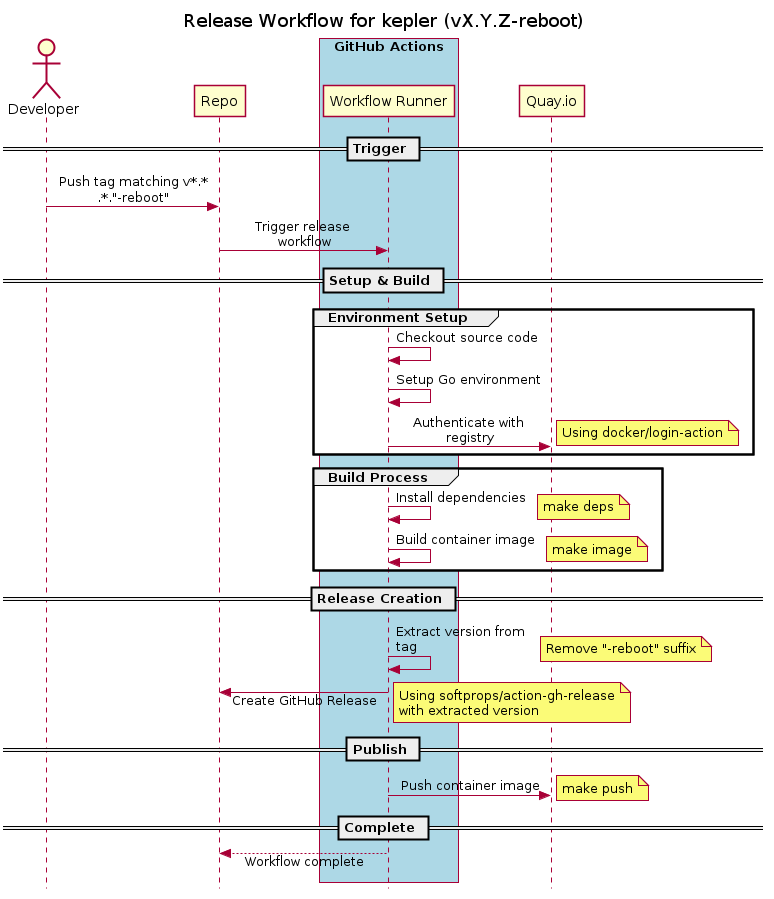
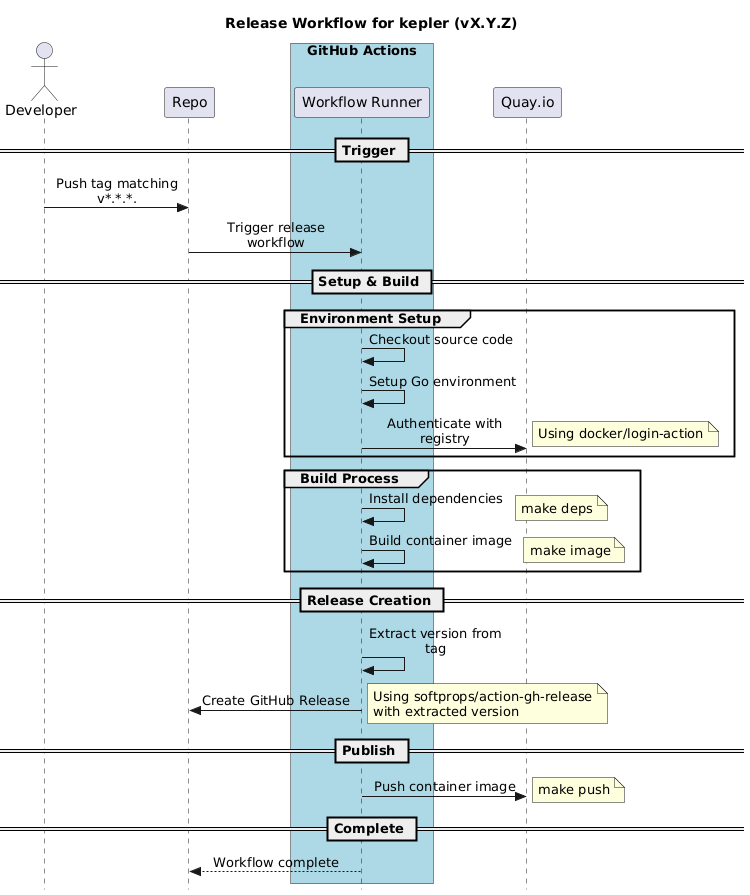
chore: switch to main
This commit updates the GH workflows, Makefile and docs
to now point to the main branch instead of reboot branch

Changed region(s): [[0.0, 0.0, 0.9813, 0.9955]]

diff --git a/README.md b/README.md
@@ -1,6 +1,6 @@
 # Kepler
 
-[![GitHub license](https://img.shields.io/github/license/sustainable-computing-io/kepler)](https://github.com/sustainable-computing-io/kepler/blob/reboot/LICENSES) [![codecov](https://codecov.io/gh/sustainable-computing-io/kepler/branch/reboot/graph/badge.svg?token=K9BDX9M86E)](https://codecov.io/gh/sustainable-computing-io/kepler/tree/reboot) [![CI Status](https://github.com/sustainable-computing-io/kepler/actions/workflows/push.yaml/badge.svg?branch=reboot)](https://github.com/sustainable-computing-io/kepler/actions/workflows/push.yaml) [![Releases](https://img.shields.io/github/v/tag/sustainable-computing-io/kepler)](https://github.com/sustainable-computing-io/kepler/releases)
+[![GitHub license](https://img.shields.io/github/license/sustainable-computing-io/kepler)](https://github.com/sustainable-computing-io/kepler/blob/main/LICENSES) [![codecov](https://codecov.io/gh/sustainable-computing-io/kepler/branch/main/graph/badge.svg?token=K9BDX9M86E)](https://codecov.io/gh/sustainable-computing-io/kepler/tree/main) [![CI Status](https://github.com/sustainable-computing-io/kepler/actions/workflows/push.yaml/badge.svg?branch=main)](https://github.com/sustainable-computing-io/kepler/actions/workflows/push.yaml) [![Releases](https://img.shields.io/github/v/tag/sustainable-computing-io/kepler)](https://github.com/sustainable-computing-io/kepler/releases)
 
 Kepler (Kubernetes-based Efficient Power Level Exporter) is a Prometheus exporter that measures energy consumption metrics at the container, pod, and node level in Kubernetes clusters.
 
